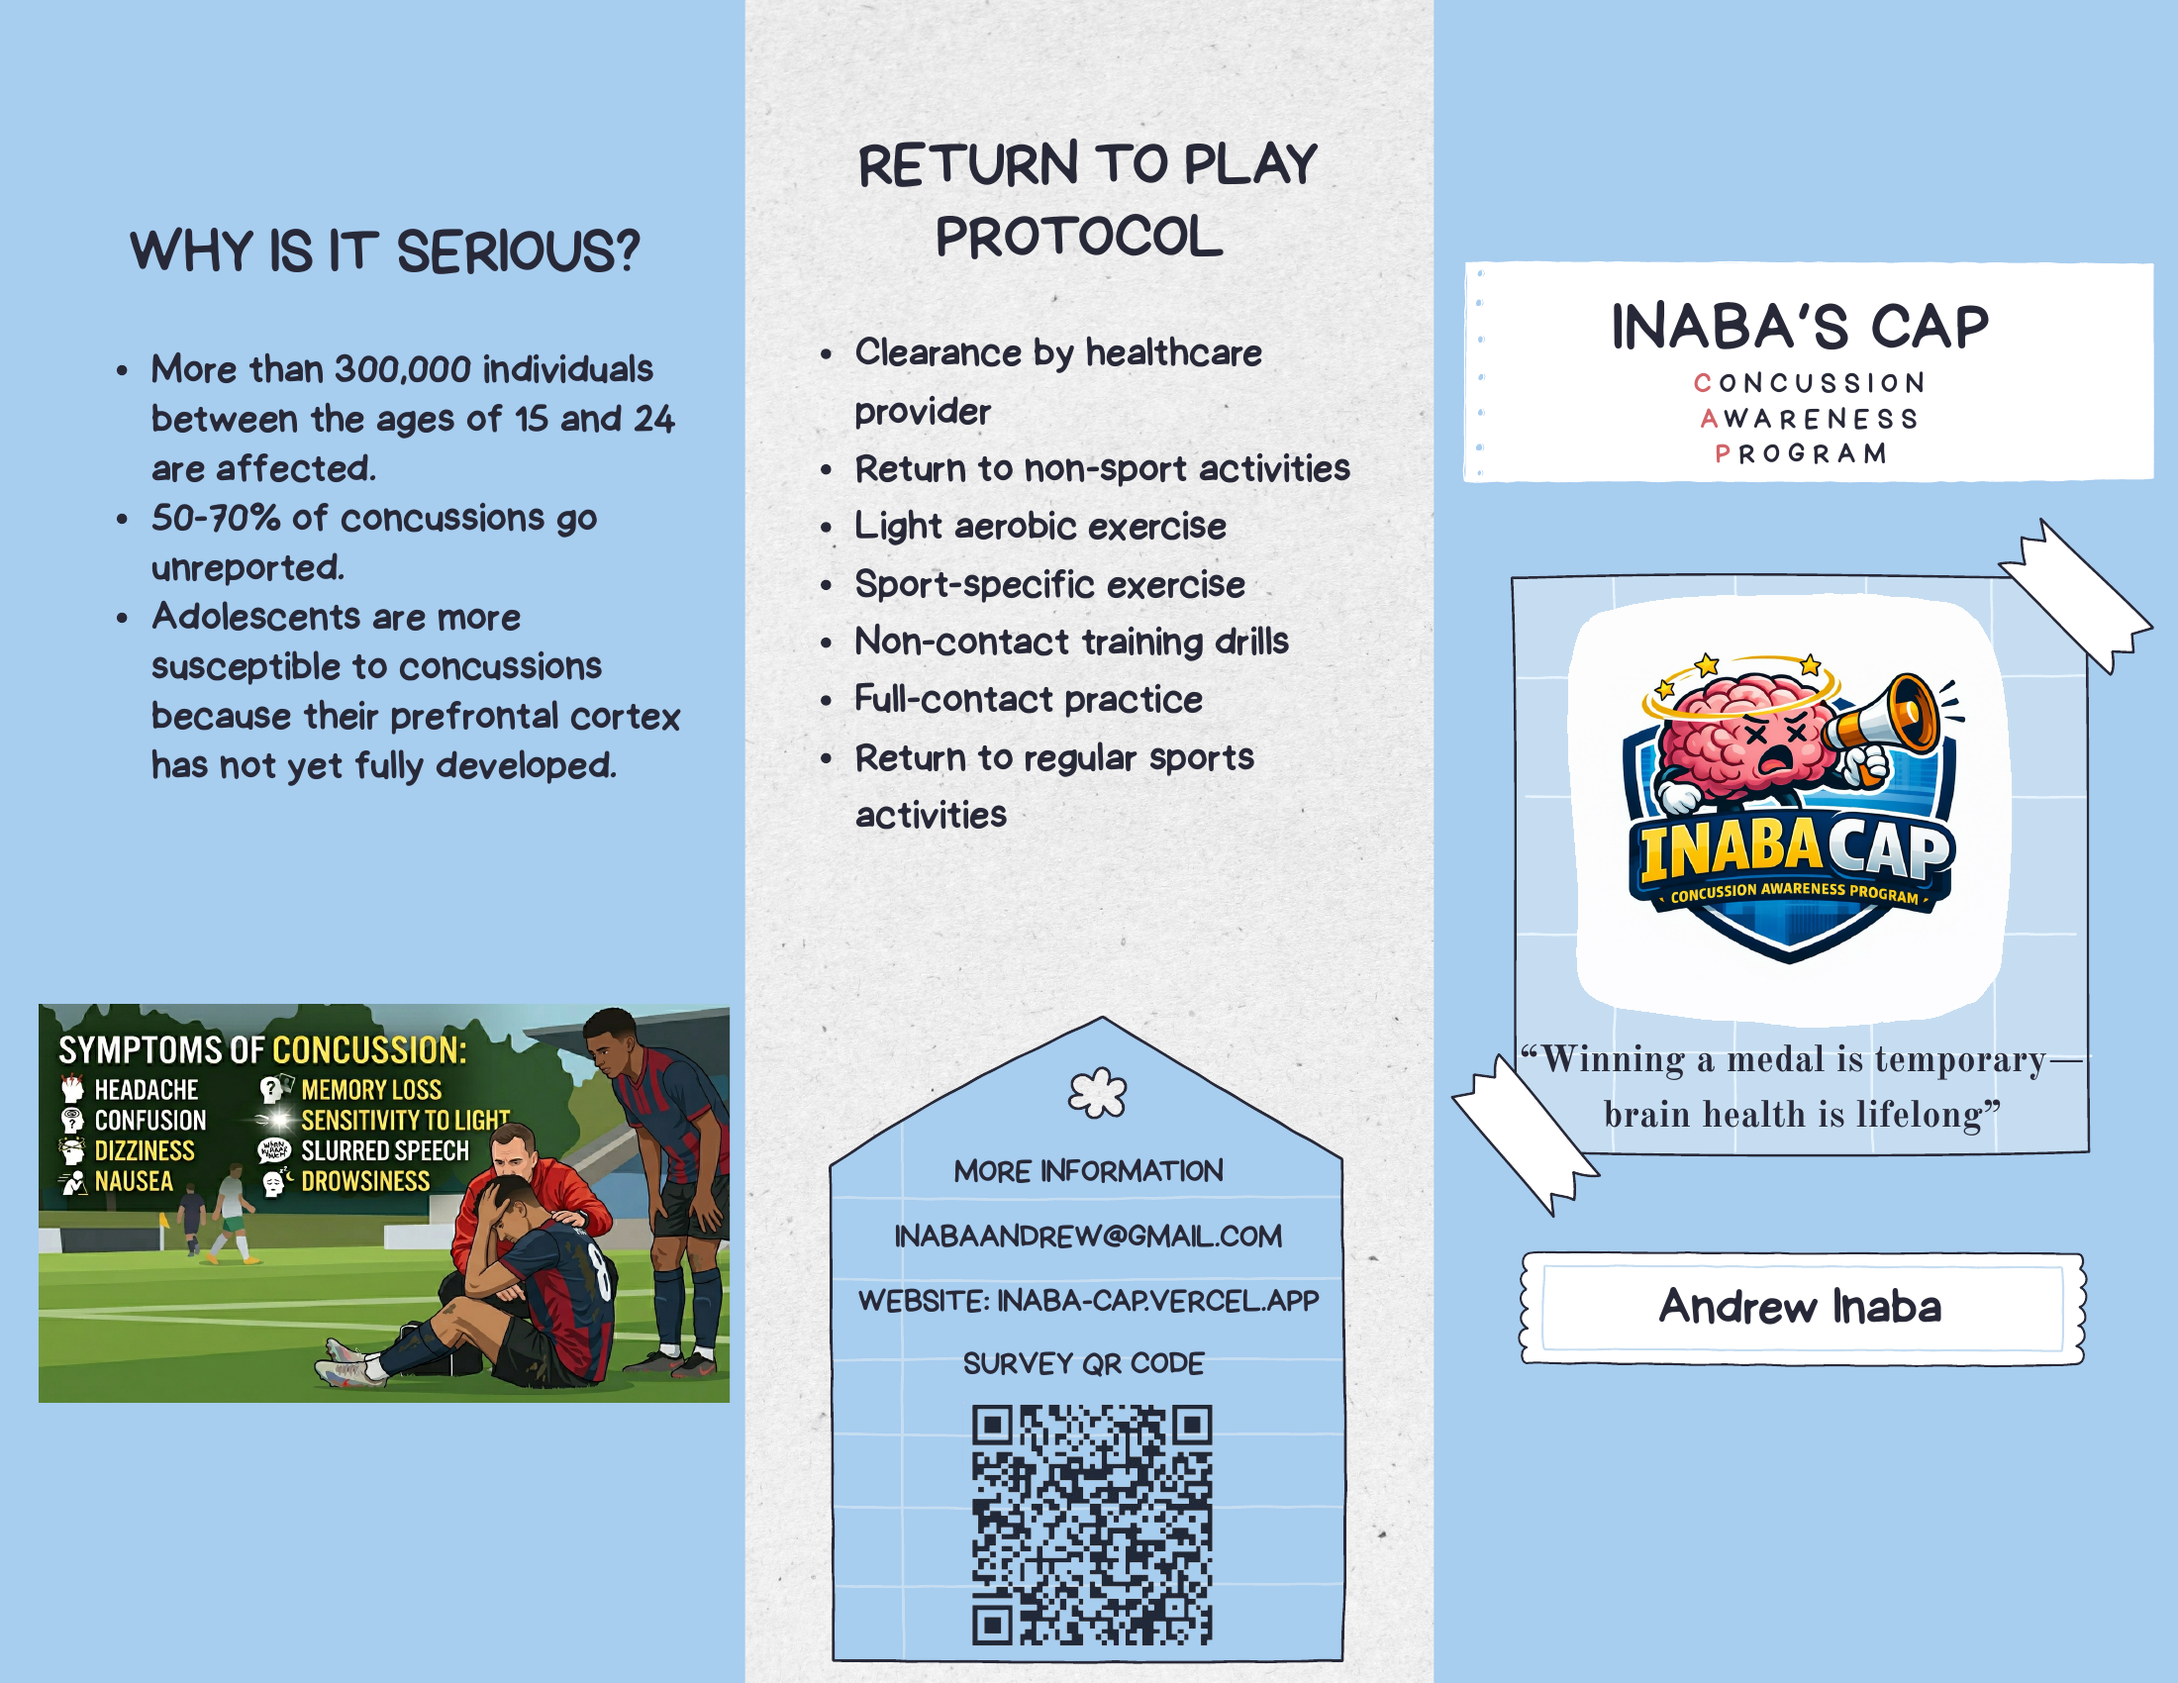
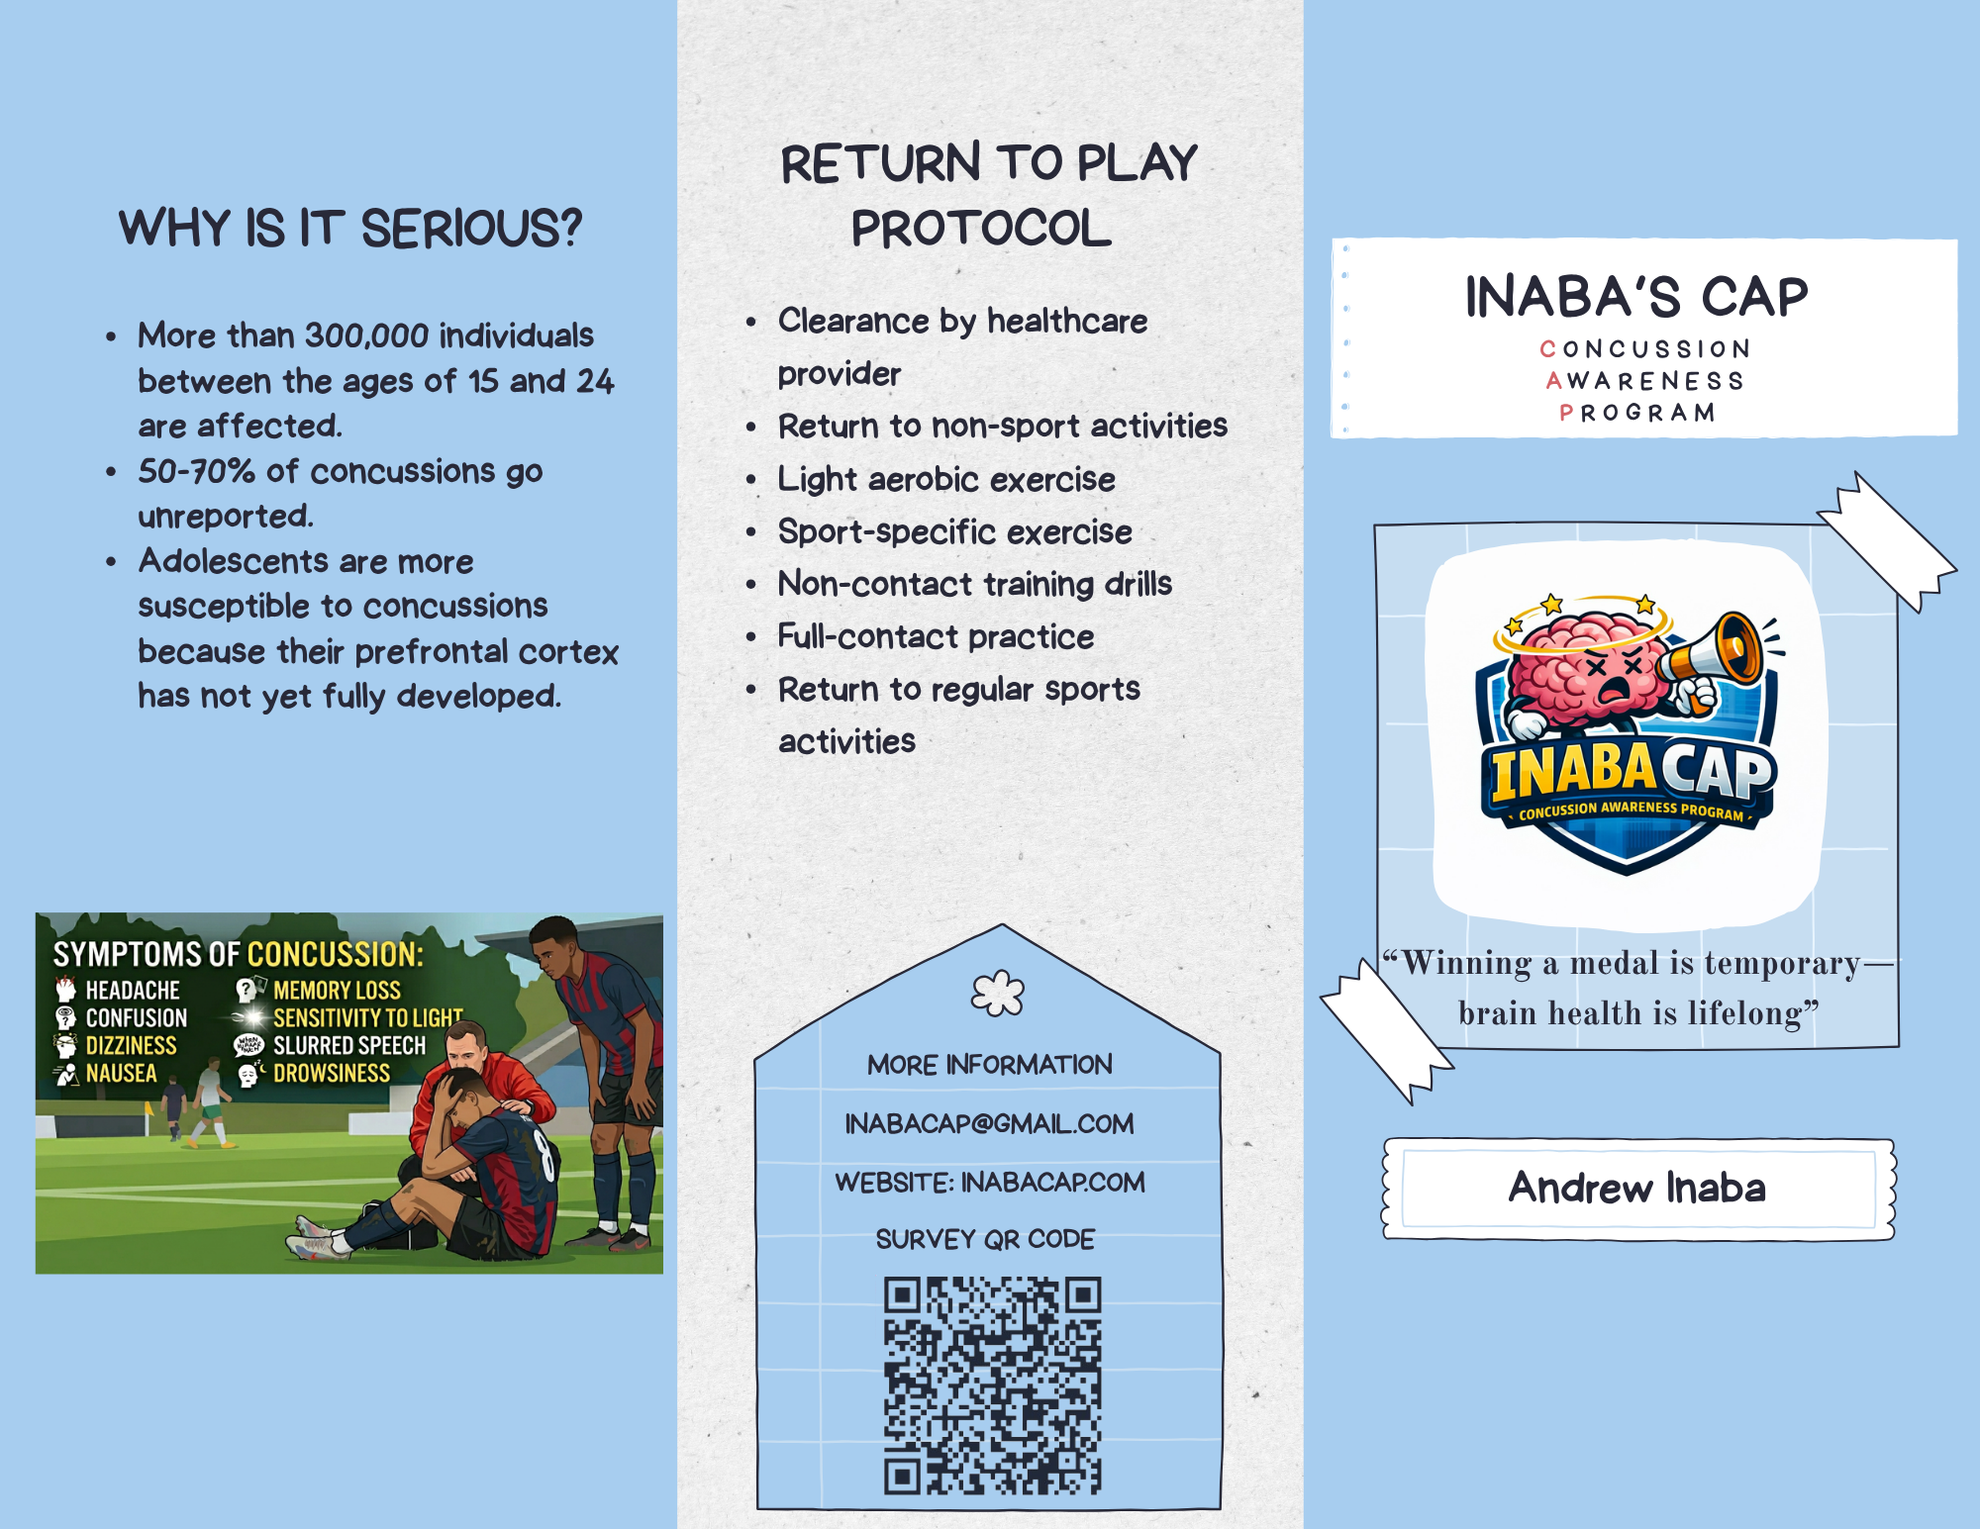
Email and domain update

diff --git a/src/App.jsx b/src/App.jsx
@@ -156,7 +156,7 @@ export default function App() {
                 controls
                 style={{ width: "100%", borderRadius: "16px", marginBottom: "1rem" }}
               >
-                <source src="https://pub-59b5a073692a4ab1819c704803952dec.r2.dev/Inabas-CAP-Presentation.mp4" type="video/mp4" />
+                <source src="https://pub-59b5a073692a4ab1819c704803952dec.r2.dev/Inabas-CAP-Presentation.mp4#t=72" type="video/mp4" />
                 Your browser does not support the video tag.
               </video>
             </article>
@@ -260,7 +260,7 @@ Overall, 50-70% of concussions not being reported. Concussions are serious becau
                 controls
                 style={{ width: "100%", borderRadius: "16px", marginBottom: "1rem" }}
               >
-                <source src="https://pub-59b5a073692a4ab1819c704803952dec.r2.dev/coach-fabian-yepez.mp4" type="video/mp4" />
+                <source src="https://pub-59b5a073692a4ab1819c704803952dec.r2.dev/coach-fabian-yepez.mp4#t=1" type="video/mp4" />
                 Your browser does not support the video tag.
               </video>
 
@@ -344,7 +344,7 @@ Overall, 50-70% of concussions not being reported. Concussions are serious becau
             </div>
             <div>
               <span className="contact-label">Email</span>
-              <p><a href="mailto:inabaandrew@gmail.com">inabaandrew@gmail.com</a></p>
+              <p><a href="mailto:inabacap@gmail.com">inabacap@gmail.com</a></p>
             </div>
           </div>
         </section>
